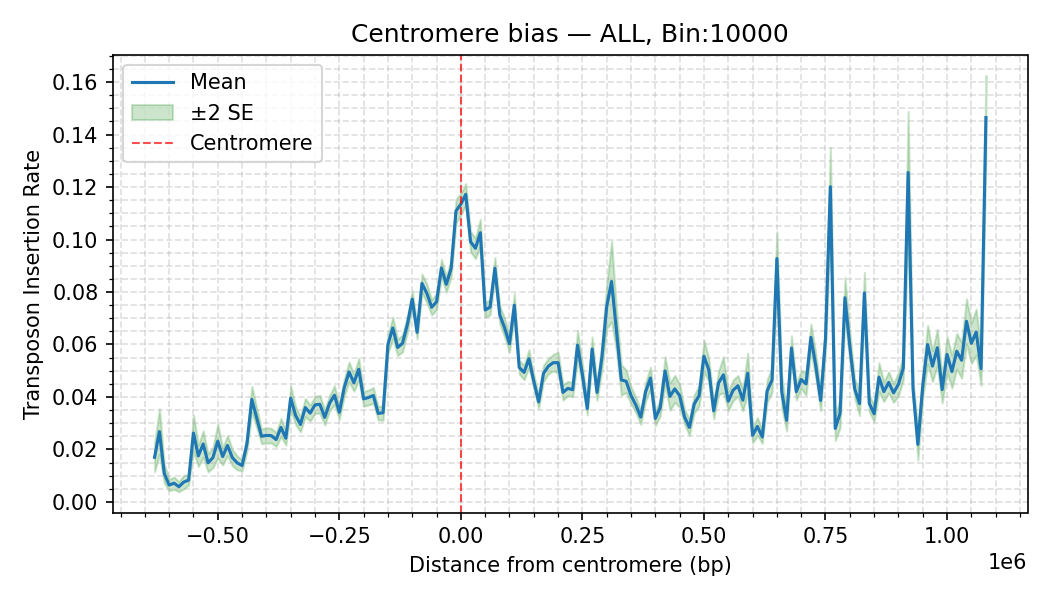
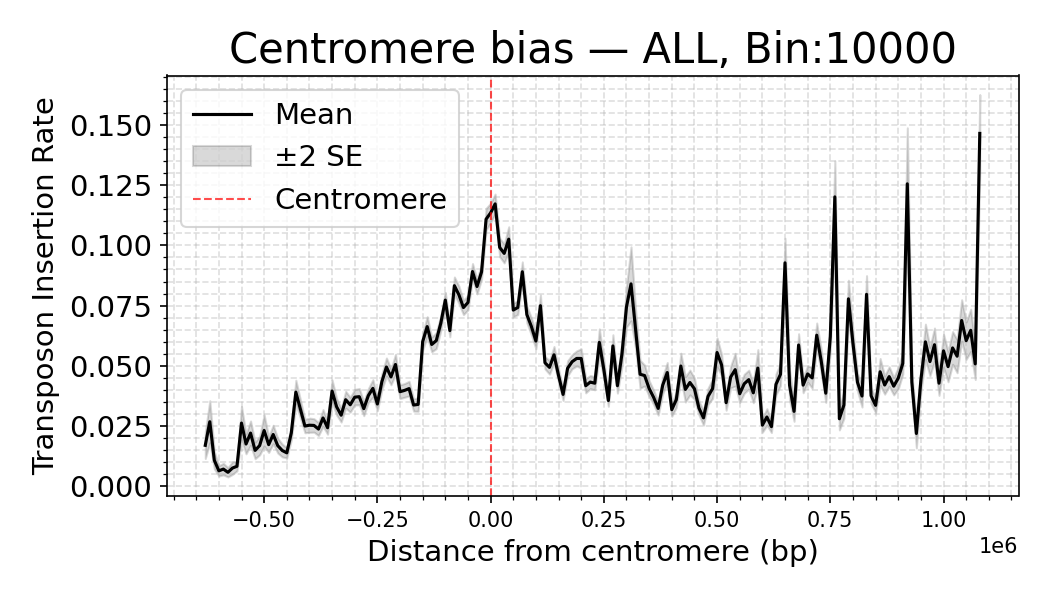
save checkpoints

Changed region(s): [[0.0, 0.03, 1.0, 0.96]]

diff --git a/AE/training/bayesian_hyperparameter.py b/AE/training/bayesian_hyperparameter.py
@@ -9,6 +9,7 @@ from skopt import gp_minimize
 from skopt.space import Real, Integer, Categorical
 from skopt.utils import use_named_args
 from skopt import dump, load
+from skopt.callbacks import CheckpointSaver
 from AE.main import main_with_datasets
 from AE.preprocessing.preprocessing import preprocess
 import argparse
@@ -307,7 +308,7 @@ def create_objective_function(optimization_metric):
 # ============================================================================
 def run_bayesian_optimization(n_calls=N_CALLS, random_state=RANDOM_STATE, 
                               n_initial_points=N_INITIAL_POINTS, n_jobs=1,
-                              optimization_metric='combined'):
+                              optimization_metric='combined', resume_from=None):
     """
     Run Bayesian hyperparameter optimization using scikit-optimize.
     
@@ -316,10 +317,47 @@ def run_bayesian_optimization(n_calls=N_CALLS, random_state=RANDOM_STATE,
         random_state: Random seed for reproducibility
         n_initial_points: Number of random evaluations before Gaussian Process
         n_jobs: Number of parallel jobs (-1 for all cores, 1 for sequential)
+        resume_from: Path to checkpoint file to resume from (optional)
         
     Returns:
         result: OptimizeResult object from skopt
     """
+    # Generate timestamp for this optimization run
+    timestamp = datetime.now().strftime("%Y%m%d_%H%M%S")
+    
+    # Setup checkpoint saving
+    checkpoint_path = os.path.join(RESULTS_DIR, f"checkpoint_{optimization_metric}_{timestamp}.pkl")
+    checkpoint_saver = CheckpointSaver(checkpoint_path, compress=9)
+    
+    # Save checkpoint metadata for easy identification
+    checkpoint_metadata = {
+        'optimization_metric': optimization_metric,
+        'timestamp': timestamp,
+        'n_calls': n_calls,
+        'n_initial_points': n_initial_points,
+        'random_state': random_state,
+        'n_jobs': n_jobs,
+        'checkpoint_file': checkpoint_path,
+        'note': f'Optimizing {optimization_metric} on validation set'
+    }
+    metadata_path = os.path.join(RESULTS_DIR, f"checkpoint_{optimization_metric}_{timestamp}_metadata.json")
+    with open(metadata_path, 'w') as f:
+        json.dump(checkpoint_metadata, f, indent=4)
+    print(f"Checkpoint metadata saved to: {metadata_path}")
+    
+    # Check if resuming from previous checkpoint
+    x0 = None
+    y0 = None
+    if resume_from and os.path.exists(resume_from):
+        print(f"\n{'='*80}")
+        print(f"Resuming from checkpoint: {resume_from}")
+        print(f"{'='*80}\n")
+        previous_result = load(resume_from)
+        x0 = previous_result.x_iters
+        y0 = previous_result.func_vals
+        print(f"Loaded {len(x0)} previous trials")
+        print(f"Best score so far: {min(y0):.6f}\n")
+    
     print(f"\n{'#'*80}")
     print(f"# Starting Bayesian Hyperparameter Optimization")
     print(f"# Optimizing metric: {optimization_metric} on VALIDATION set")
@@ -327,6 +365,9 @@ def run_bayesian_optimization(n_calls=N_CALLS, random_state=RANDOM_STATE,
     print(f"# Initial random points: {n_initial_points}")
     print(f"# Random state: {random_state}")
     print(f"# Parallel jobs: {n_jobs}")
+    print(f"# Checkpoint will be saved to: {checkpoint_path}")
+    if x0 is not None:
+        print(f"# Resuming with {len(x0)} previous trials")
     print(f"{'#'*80}\n")
     
     # Set environment variables to prevent each worker from spawning multiple threads
@@ -351,16 +392,36 @@ def run_bayesian_optimization(n_calls=N_CALLS, random_state=RANDOM_STATE,
         random_state=random_state,
         verbose=True,
         n_jobs=n_jobs,
+        x0=x0,
+        y0=y0,
+        callback=[checkpoint_saver]
     )
     
     # Force cleanup of any remaining resources
     gc.collect()
     
-    # Save results
-    timestamp = datetime.now().strftime("%Y%m%d_%H%M%S")
+    # Save final results (timestamp already created at start)
     result_file = os.path.join(RESULTS_DIR, f"bayesian_opt_result_{optimization_metric}_{timestamp}.pkl")
     dump(result, result_file)
     print(f"\nOptimization result saved to: {result_file}")
+    
+    # Save final result metadata
+    final_metadata = {
+        'optimization_metric': optimization_metric,
+        'timestamp': timestamp,
+        'n_calls': n_calls,
+        'n_initial_points': n_initial_points,
+        'random_state': random_state,
+        'n_jobs': n_jobs,
+        'total_trials': len(result.x_iters),
+        'best_score': float(result.fun),
+        'result_file': result_file,
+        'note': f'Final result of optimizing {optimization_metric} on validation set'
+    }
+    final_metadata_path = os.path.join(RESULTS_DIR, f"bayesian_opt_result_{optimization_metric}_{timestamp}_metadata.json")
+    with open(final_metadata_path, 'w') as f:
+        json.dump(final_metadata, f, indent=4)
+    print(f"Result metadata saved to: {final_metadata_path}")
     
     # Extract best parameters
     best_params = {search_space[i].name: result.x[i] for i in range(len(search_space))}
@@ -368,11 +429,15 @@ def run_bayesian_optimization(n_calls=N_CALLS, random_state=RANDOM_STATE,
     # Extract ALL trial results from the optimization result
     all_trials_data = {
         'optimization_info': {
+            'description': f'Bayesian optimization results for minimizing {optimization_metric} on validation set',
             'optimization_metric': optimization_metric,
+            'metric_description': 'The loss metric being minimized during optimization',
             'n_calls': n_calls,
             'n_initial_points': n_initial_points,
             'random_state': random_state,
+            'n_jobs': n_jobs,
             'timestamp': timestamp,
+            'total_trials_completed': len(result.x_iters),
             'best_score': float(result.fun),
         },
         'best_parameters': {},
@@ -460,6 +525,8 @@ if __name__ == "__main__":
     parser.add_argument('--metric', type=str, default=OPTIMIZATION_METRIC,
                        choices=['zinb_nll', 'combined', 'total_loss'],
                        help='Optimization metric to minimize (zinb_nll or combined)')
+    parser.add_argument('--resume_from', type=str, default=None,
+                       help='Path to checkpoint file to resume optimization from')
     
     args = parser.parse_args()
     
@@ -469,6 +536,7 @@ if __name__ == "__main__":
         random_state=args.random_state,
         n_initial_points=args.n_initial_points,
         n_jobs=args.n_jobs,
-        optimization_metric=args.metric
+        optimization_metric=args.metric,
+        resume_from=args.resume_from
     )
 

diff --git a/Data_exploration/densities.py b/Data_exploration/densities.py
@@ -484,11 +484,11 @@ def _combine_curves(df: pd.DataFrame, group_by: list, out_dir: str, tag: str, pl
         if plot:
             fig, ax = plt.subplots(figsize=(7,4))
             # main line
-            ax.plot(sub["distance"], sub["mean_density"], label="Mean")
+            ax.plot(sub["distance"], sub["mean_density"], label="Mean", color='black')
             # ribbon: ±2 SE (approximately 95% confidence interval)
             lo = sub["mean_density"] - 2 * sub["se_density"].fillna(0)
             hi = sub["mean_density"] + 2 * sub["se_density"].fillna(0)
-            ax.fill_between(sub["distance"], lo, hi, alpha=0.2, label="±2 SE", color='green')
+            ax.fill_between(sub["distance"], lo, hi, alpha=0.15, label="±2 SE", color='black')
 
             ax.set_xlabel("Distance from nucleosome (bp)")
             ax.set_ylabel("Transposon Insertion Rate")
@@ -655,11 +655,11 @@ def _combine_cen_curves(df: pd.DataFrame, group_by: list, out_dir: str, tag: str
         if len(sub_filtered) > 0:
             sub_sorted = sub_filtered.sort_values("Bin_Center").copy()
             fig, ax = plt.subplots(figsize=(7,4))
-            ax.plot(sub_sorted["Bin_Center"], sub_sorted["mean_density"], label="Mean")
+            ax.plot(sub_sorted["Bin_Center"], sub_sorted["mean_density"], label="Mean", color='black')
             # ribbon: ±2 SE (approximately 95% confidence interval)
             lo = sub_sorted["mean_density"] - 2 * sub_sorted["se_density"].fillna(0)
             hi = sub_sorted["mean_density"] + 2 * sub_sorted["se_density"].fillna(0)
-            ax.fill_between(sub_sorted["Bin_Center"], lo, hi, alpha=0.2, label="±2 SE", color='green')
+            ax.fill_between(sub_sorted["Bin_Center"], lo, hi, alpha=0.15, label="±2 SE", color='black')
             # Only show centromere line at x=0 when using signed distances
             if not absolute_distance:
                 ax.axvline(0, linestyle="--", linewidth=1, color="red", alpha=0.7, label="Centromere")
@@ -740,7 +740,7 @@ if __name__ == "__main__":
     # density_from_nucleosome("Data/distances_with_zeros_new", "Data_exploration/results/densities/nucleosome_new", boolean=True)
     
     # Combine nucleosome data: 
-    # combine_nucleosome_data(data="All", boolean=True, plot=True, base_folder="Data_exploration/results/densities/nucleosome_new", min_distance=0, max_distance=800)
+    combine_nucleosome_data(data="All", boolean=True, plot=True, base_folder="Data_exploration/results/densities/nucleosome_new", min_distance=0, max_distance=800)
     # combine_nucleosome_data(data="Chromosomes", boolean=True, plot=True)
     
     # Combine centromere data with specific filters:

diff --git a/Utils/plot_config.py b/Utils/plot_config.py
@@ -27,7 +27,7 @@ def setup_plot_style():
     """
     plt.rcParams.update({
         'font.size': 14,          # Base font size
-        'axes.labelsize': 18,     # X and Y labels
+        'axes.labelsize': 14,     # X and Y labels
         'axes.titlesize': 20,     # Subplot titles
         'xtick.labelsize': 10,    # X-axis tick labels
         'ytick.labelsize': 14,    # Y-axis tick labels
